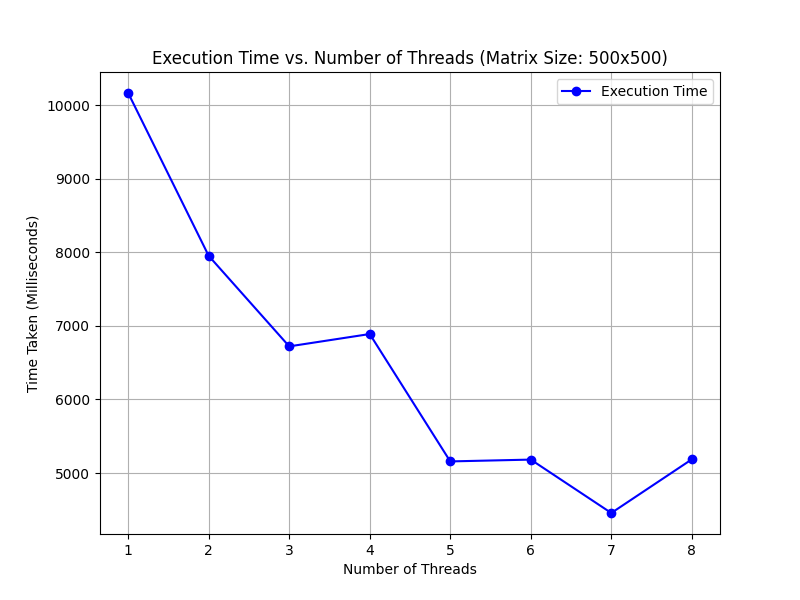
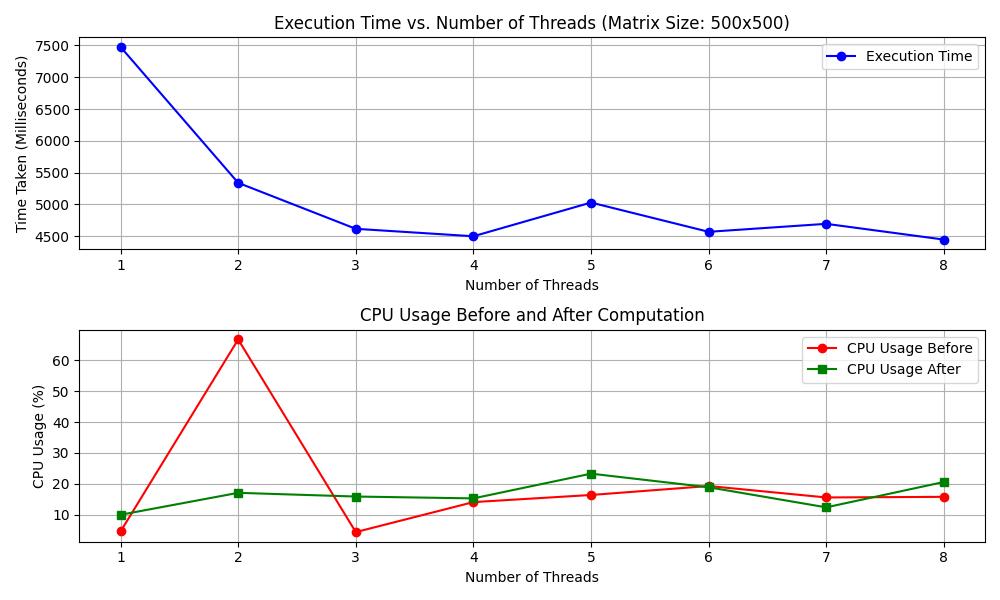
Update

diff --git a/102218044.py b/102218044.py
@@ -2,6 +2,7 @@ import numpy as np
 import time
 from multiprocessing import Pool
 import matplotlib.pyplot as plt
+import psutil
 
 
 def multiply_matrices(constant_matrix, matrix):
@@ -10,11 +11,17 @@ def multiply_matrices(constant_matrix, matrix):
 
 # Execution time with different thread counts
 def measure_execution_time(num_threads, matrices, constant_matrix):
+    cpu_usages = []  # List to store CPU usage during execution
     with Pool(processes=num_threads) as pool:
         start_time = time.time()
+        # Track CPU usage at the start
+        cpu_usages.append(psutil.cpu_percent(interval=None))  # Initial CPU usage before computation
         pool.starmap(multiply_matrices, [(constant_matrix, m) for m in matrices])
+        # Track CPU usage after computation
+        cpu_usages.append(psutil.cpu_percent(interval=None))  # CPU usage after computation
         end_time = time.time()
-    return (end_time - start_time) * 1000  # Convert to milliseconds
+
+    return (end_time - start_time) * 1000, cpu_usages  # Return both execution time and CPU usage
 
 
 def main():
@@ -27,17 +34,21 @@ def main():
     num_threads_list = list(range(1, 9))
 
     times_taken = []
+    cpu_usages_list = []
 
     # Matrix multiplication with different thread counts
     for num_threads in num_threads_list:
         print(f"\nTesting with {num_threads} threads...")
-        # Measure execution time
-        time_taken = measure_execution_time(num_threads, matrices, constant_matrix)
+        # Measure execution time and CPU usage
+        time_taken, cpu_usages = measure_execution_time(num_threads, matrices, constant_matrix)
         times_taken.append(time_taken)
+        cpu_usages_list.append(cpu_usages)
         print(f"Time taken with {num_threads} threads: {time_taken:.2f} milliseconds")
+        print(f"CPU usage before/after with {num_threads} threads: {cpu_usages}")
 
     # Execution time graph in milliseconds
-    plt.figure(figsize=(8, 6))
+    plt.figure(figsize=(10, 6))
+    plt.subplot(2, 1, 1)  # Plot execution time
     plt.plot(num_threads_list, times_taken, marker='o', color='b', label="Execution Time")
     plt.xlabel("Number of Threads")
     plt.ylabel("Time Taken (Milliseconds)")
@@ -45,6 +56,21 @@ def main():
     plt.xticks(num_threads_list)
     plt.legend()
     plt.grid(True)
+
+    # CPU Usage graph
+    cpu_usages_before = [usage[0] for usage in cpu_usages_list]  # Before computation
+    cpu_usages_after = [usage[1] for usage in cpu_usages_list]  # After computation
+    plt.subplot(2, 1, 2)  # Plot CPU Usage
+    plt.plot(num_threads_list, cpu_usages_before, marker='o', color='r', label="CPU Usage Before")
+    plt.plot(num_threads_list, cpu_usages_after, marker='s', color='g', label="CPU Usage After")
+    plt.xlabel("Number of Threads")
+    plt.ylabel("CPU Usage (%)")
+    plt.title("CPU Usage Before and After Computation")
+    plt.xticks(num_threads_list)
+    plt.legend()
+    plt.grid(True)
+
+    plt.tight_layout()  # Adjust layout to avoid overlap
     plt.show()
 
 

diff --git a/README.md b/README.md
@@ -38,11 +38,15 @@ pip install numpy matplotlib
 
 ## Output
 - Prints execution times (in milliseconds) for each thread count (1 to 8).
-- Displays a graph showing execution time vs. number of threads.
-
+- Displays two graphs:
+   1. **Execution Time vs. Number of Threads**: The time taken for matrix multiplication with different thread counts.
+   2. **CPU Usage Before and After Computation**: The CPU usage before and after the computation for different thread counts.
 ---
 
 ## Result
+- **Execution Time vs. Number of Threads**: Shows the impact of thread count on execution time for matrix multiplication.
+- **CPU Usage**: Displays how CPU usage changes before and after the matrix multiplication process.
+
 ![myplot.png](myplot.png)
 
 ---
